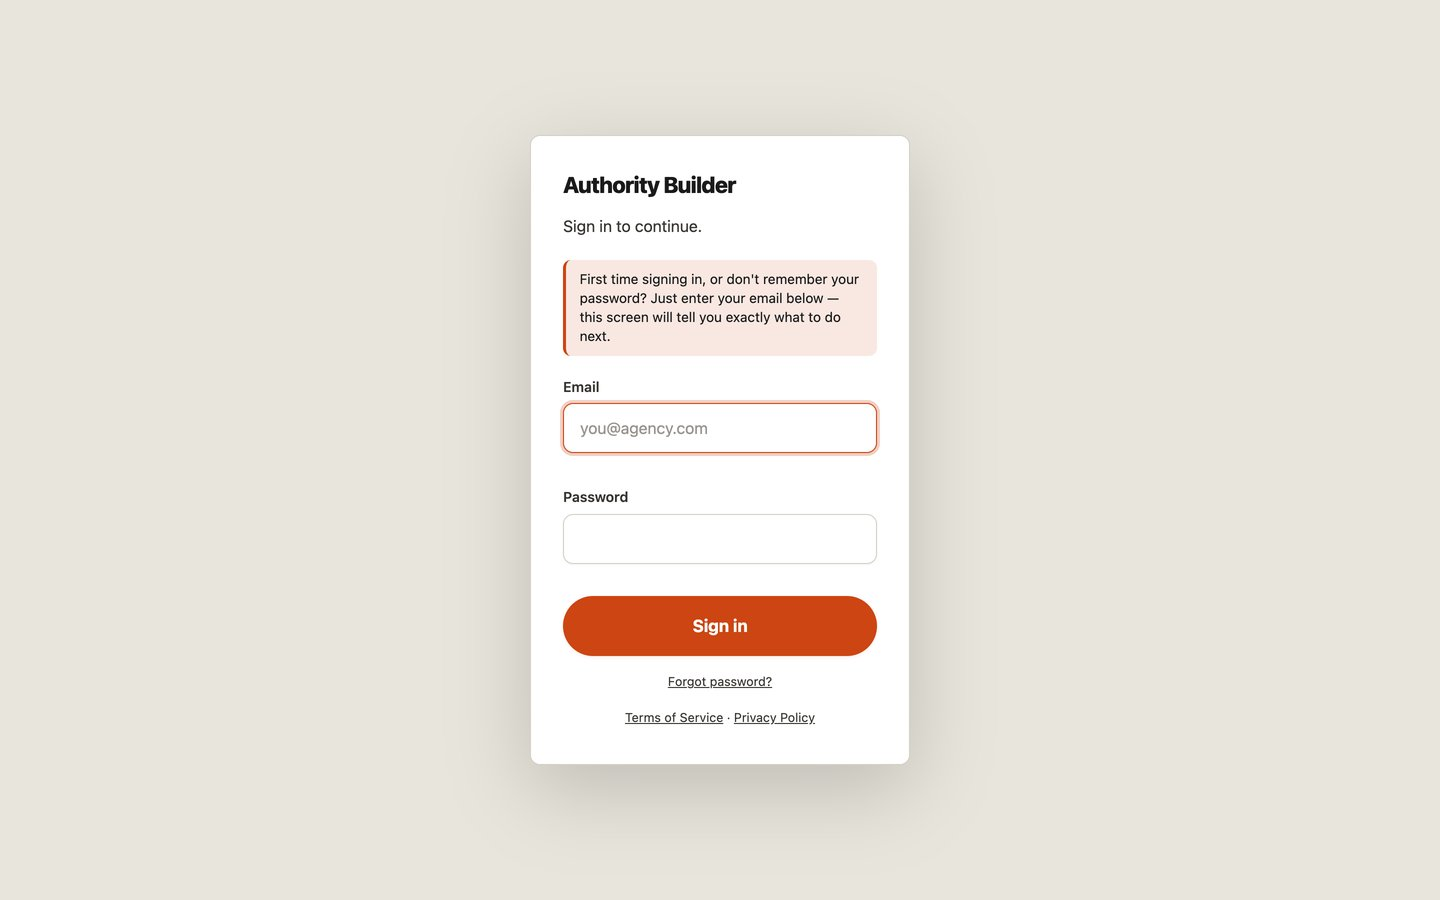
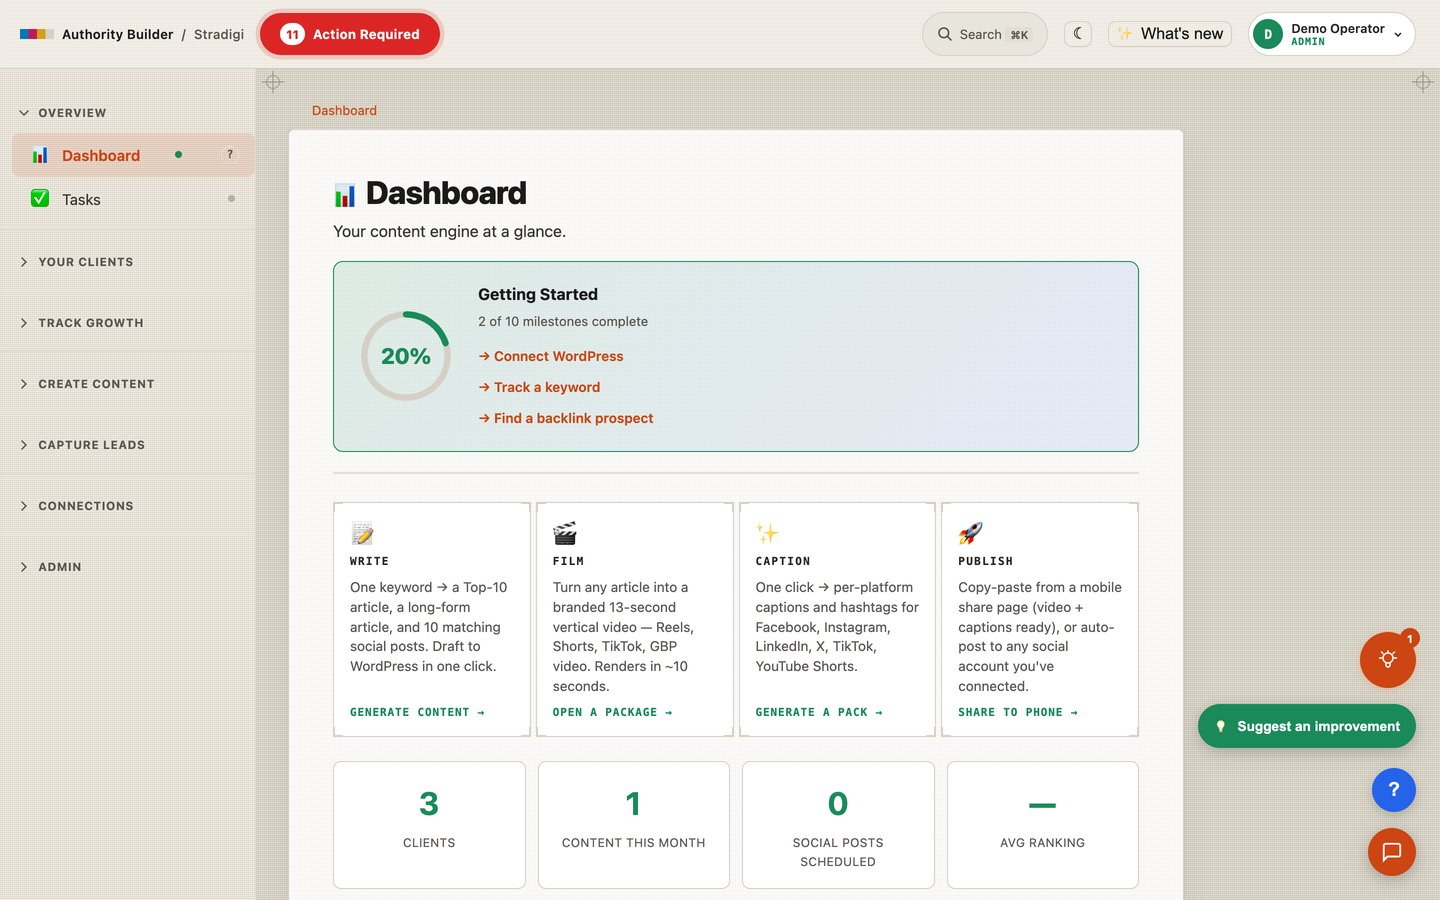
Authority Builder section: dashboard view

diff --git a/systems/authority-builder.html b/systems/authority-builder.html
@@ -183,7 +183,7 @@
         </div>
         <figure class="ab-soft__frame">
           <div class="ab-soft__chrome" aria-hidden="true"><i></i><i></i><i></i><span>stradigi-software.replit.app</span></div>
-          <img src="../assets/img/ab-software.jpg" alt="The Authority Builder software sign-in screen" width="1440" height="900" decoding="async" loading="lazy">
+          <img src="../assets/img/ab-software.jpg" alt="The Authority Builder dashboard: write, film, caption, and publish content for a client" width="1440" height="900" decoding="async" loading="lazy">
         </figure>
         <p class="ab-soft__note">Working with Stradigi already? <a href="https://stradigi-software.replit.app/" target="_blank" rel="noopener">Operator sign-in &rarr;</a></p>
       </div>
